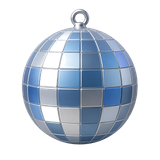
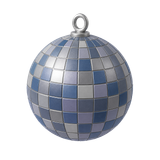
Fuenf Ersatz-Avatare, und zwei neue Ankommen-Karten
Die fuenf neuen Exporte sind sauber: 1024 mit Alphakanal, kein deckendes
Weiss, und die Lochzahlen passen zu den Motiven. Damit ist COZYQUIZ_DEFEKT
leer und der Satz zum ersten Mal komplett heil.

Dabei musste ich das Urteil im Pruefwerkzeug korrigieren. 'Ein
absichtliches Loch ist EINS' hat die kaputte Discokugel gefunden, war aber
falsch: der neue Ballon hat drei Seil-Zwischenraeume, der Planet zwei
Sicheln. Der Unterschied ist die Regelmaessigkeit, nicht die Anzahl.

Ankommen Schritt 3: 'Heute Abend' mit den Zahlen, die die Buehne vor dem
Spiel wirklich kennt (Kategorien gehoeren nicht dazu, die liegen im
Entwurf), und die Avatar-Karte.

Claude-Session: https://claude.ai/code/session_01QzZkRyd75Q6eqFDuBPStVf

diff --git a/frontend/src/components/CozyQuizPausedView.tsx b/frontend/src/components/CozyQuizPausedView.tsx
@@ -13,9 +13,11 @@
 import { useState, useEffect, useRef, useMemo, cloneElement, isValidElement } from 'react';
 import type { ReactElement } from 'react';
 import type { QQStateUpdate } from '../../../shared/quarterQuizTypes';
-import { QQ_AVATARS, QQ_MEGA_FACTIONS, qqIsMega } from '../../../shared/quarterQuizTypes';
+import { QQ_AVATARS, QQ_MEGA_FACTIONS, QQ_TEAM_PALETTE, qqIsMega } from '../../../shared/quarterQuizTypes';
 import { useLangFlip, COZY_CARD_BG, qqPlural } from '../cozyQuizShared';
 import { qqSortedTeams, qqSortedGroups } from '../qqShared';
+import { qqKachelFlaeche } from '../qqKachel';
+import { COZYQUIZ_HEILE, cozyQuizSrcKlein, cozyQuizLabel } from '../cozyquizAvatars';
 import { Fireflies, EurovisionHearts } from './CozyQuizAmbient';
 import { GridDisplay } from './CozyQuizGridDisplay';
 import { QQTeamAvatar } from './QQTeamAvatar';
@@ -318,6 +320,79 @@ export function PausedView({ state: s, mode = 'pause' }: { state: QQStateUpdate;
       </div>
     )});
 
+    // ── Heute Abend ───────────────────────────────────────────────────────
+    // 2026-08-27. Die einzige Karte mit echten Zahlen, die es VOR der ersten
+    // Frage schon gibt. Nachgesehen, was die Buehne im Ankommen-Zustand
+    // ueberhaupt weiss (Socket-Mitschnitt, nicht geraten):
+    //
+    //   totalPhases        4       -> 4 Runden, 20 Fragen
+    //   timerDurationSec   30      -> 30 Sekunden je Frage
+    //   finalWagerEnabled  true    -> Grosses Finale
+    //   cozyGamesEnabled   an/aus  -> Bunte Tuete
+    //
+    // Die KATEGORIEN sind nicht dabei, die liegen im Entwurf beim Moderator.
+    // Deshalb stehen sie hier nicht - eine Karte, die etwas behauptet, was die
+    // Buehne nicht weiss, waere schlimmer als eine Karte weniger.
+    //
+    // Beide Sprachen gleichzeitig: die Zeilen sind kurz genug, und damit
+    // braucht diese Karte keinen zweiten Takt.
+    {
+      const runden = s.totalPhases ?? 4;
+      const fragen = runden * 5;
+      const zeilen: Array<{ zahl: string; de: string; en: string }> = [
+        { zahl: String(runden), de: 'Runden', en: 'rounds' },
+        { zahl: String(fragen), de: 'Fragen', en: 'questions' },
+        { zahl: `${s.timerDurationSec ?? 30}s`, de: 'je Frage', en: 'per question' },
+      ];
+      const extras: Array<{ de: string; en: string }> = [];
+      if ((s as { cozyGamesEnabled?: boolean }).cozyGamesEnabled) {
+        extras.push({ de: 'Bunte Tüte zwischen den Runden', en: 'Lucky Bag between rounds' });
+      }
+      if (s.finalWagerEnabled === true) {
+        extras.push({ de: 'Großes Finale zum Schluss', en: 'Grand Finale at the end' });
+      }
+      panels.push({ key: 'heuteAbend', node: (
+        <div style={{ width: 'min(100%, 1100px)', margin: '0 auto' }}>
+          <div style={{ fontSize: 'clamp(28px, 3.2cqw, 46px)', fontWeight: 900, color: 'var(--qq-card-text)', marginBottom: 22, display: 'flex', alignItems: 'center', justifyContent: 'center', gap: 16 }}>
+            <span style={{ display: 'inline-block', animation: 'panelIconPop 0.7s var(--qq-ease-bounce) 0.25s both' }}>🗓</span>
+            {de ? 'Heute Abend' : 'Tonight'}
+          </div>
+          <div style={{ display: 'grid', gridTemplateColumns: 'repeat(3, 1fr)', gap: 16 }}>
+            {zeilen.map((z, i) => (
+              <div key={z.de} style={{
+                display: 'flex', flexDirection: 'column', alignItems: 'center', gap: 6,
+                padding: '26px 14px',
+                borderRadius: isThemed() ? 'var(--qq-card-radius)' : 16,
+                background: isThemed() ? 'var(--qq-surface)' : 'rgba(255,235,200,0.04)',
+                border: isThemed() ? '1px solid var(--qq-hairline)' : '1px solid rgba(255,235,200,0.10)',
+                boxShadow: 'inset 0 1px 0 rgba(246, 239, 230,0.04)',
+                animation: `panelSlideIn 0.6s var(--qq-ease-out-cubic) ${0.08 * i}s both`,
+              }}>
+                <div style={{ fontSize: 'clamp(44px, 5.2cqw, 84px)', fontWeight: 900, lineHeight: 1, color: 'var(--qq-accent)', fontVariantNumeric: 'tabular-nums' }}>{z.zahl}</div>
+                <div style={{ fontSize: 'clamp(18px, 2cqw, 28px)', fontWeight: 900, color: 'var(--qq-card-text)' }}>{z.de}</div>
+                <div style={{ fontSize: 'clamp(14px, 1.5cqw, 20px)', fontWeight: 700, color: 'var(--qq-text-muted)' }}>{z.en}</div>
+              </div>
+            ))}
+          </div>
+          {extras.length > 0 && (
+            <div style={{ display: 'flex', flexWrap: 'wrap', justifyContent: 'center', gap: 12, marginTop: 18 }}>
+              {extras.map((e, i) => (
+                <span key={e.de} style={{
+                  padding: '10px 18px',
+                  borderRadius: 999,
+                  fontSize: 'clamp(16px, 1.8cqw, 24px)', fontWeight: 800,
+                  color: 'var(--qq-text-muted)',
+                  background: isThemed() ? 'var(--qq-surface)' : 'rgba(255,235,200,0.04)',
+                  border: isThemed() ? '1px solid var(--qq-hairline)' : '1px solid rgba(255,235,200,0.10)',
+                  animation: `panelSlideIn 0.6s var(--qq-ease-out-cubic) ${0.26 + 0.08 * i}s both`,
+                }}>{de ? e.de : e.en}</span>
+              ))}
+            </div>
+          )}
+        </div>
+      )});
+    }
+
     // ── Wer schon da ist ──────────────────────────────────────────────────
     // 2026-08-27. Zwei Wuensche von Wolf treffen sich hier:
     //   „bereits eingeloggte teams oder sowas?" (26.8., zum Ankommen)
@@ -363,6 +438,61 @@ export function PausedView({ state: s, mode = 'pause' }: { state: QQStateUpdate;
                 <TeamNameLabel name={t.name} maxLines={2} shrinkAfter={16} fontSize={30} color={'var(--qq-card-text)'} fontWeight={900} />
               </div>
             ))}
+          </div>
+        </div>
+      )});
+    }
+
+    // ── Die Avatare ───────────────────────────────────────────────────────
+    // 2026-08-27. Reine Atmosphaere, und genau deshalb richtig: sie braucht
+    // null Daten, sie ist die reinste Form des 2a-Designs (farbneutrales Objekt
+    // auf Farbkachel), und sie pflanzt den Gedanken „ich such mir gleich einen
+    // aus", bevor der QR ueberhaupt kommt.
+    //
+    // ⚠ Nur die heilen Motive. Fuenf sind defekt (weisse Flaeche statt Loch,
+    // bzw. Loecher mitten in der Kugel) - die Liste steht in
+    // `COZYQUIZ_DEFEKT`. Auf einer Folie, die 20 Minuten laeuft und wo die
+    // Motive GROSS stehen, faellt ein weisser Kasten sofort auf. Sobald die
+    // neuen Exporte da sind, wird die Liste leer und sie sind automatisch
+    // wieder dabei.
+    //
+    // Ein fester Ausschnitt, nicht alle 48: gross genug fuer acht Meter, und
+    // die Auswahl wechselt nicht bei jedem Umlauf (nichts blinkt).
+    {
+      // 2026-08-27 gemessen: bei drei Reihen lief die unterste aus dem Bild
+      // (Kontaktbogen `.shots/ANKOMMEN-NEU.png`). Der Kartenbereich der Folie
+      // ist nicht die ganze Buehne - darueber steht die Wortmarke, darunter
+      // „Gleich geht's los" und der Wolf. Zwei Reihen passen.
+      const SPALTEN = 8, ZEILEN = 2;
+      const gezeigt = COZYQUIZ_HEILE.slice(0, SPALTEN * ZEILEN);
+      panels.push({ key: 'avatare', node: (
+        <div style={{ width: 'min(100%, 1280px)', margin: '0 auto' }}>
+          <div style={{ fontSize: 'clamp(28px, 3.2cqw, 46px)', fontWeight: 900, color: 'var(--qq-card-text)', marginBottom: 20, display: 'flex', alignItems: 'center', justifyContent: 'center', gap: 16 }}>
+            <span style={{ display: 'inline-block', animation: 'panelIconPop 0.7s var(--qq-ease-bounce) 0.25s both' }}>🎨</span>
+            {de ? 'Sucht euch einen aus' : 'Pick your avatar'}
+          </div>
+          <div style={{ display: 'grid', gridTemplateColumns: `repeat(${SPALTEN}, 1fr)`, gap: 12 }}>
+            {gezeigt.map((slug, i) => (
+              <div key={slug} style={{
+                aspectRatio: '1 / 1',
+                display: 'flex', alignItems: 'center', justifyContent: 'center',
+                ...qqKachelFlaeche({
+                  farbe: QQ_TEAM_PALETTE[i % QQ_TEAM_PALETTE.length],
+                  radius: 18,
+                }),
+                animation: `panelSlideIn 0.5s var(--qq-ease-out-cubic) ${0.02 * i}s both`,
+              }}>
+                <img
+                  src={cozyQuizSrcKlein(slug)}
+                  alt={cozyQuizLabel(slug, lang)}
+                  draggable={false}
+                  style={{ width: '78%', height: '78%', objectFit: 'contain', display: 'block' }}
+                />
+              </div>
+            ))}
+          </div>
+          <div style={{ textAlign: 'center', marginTop: 16, fontSize: 'clamp(16px, 1.8cqw, 24px)', fontWeight: 800, color: 'var(--qq-text-muted)' }}>
+            {de ? `${COZYQUIZ_HEILE.length} Objekte, 8 Farben` : `${COZYQUIZ_HEILE.length} objects, 8 colours`}
           </div>
         </div>
       )});

diff --git a/frontend/src/cozyquizAvatars.ts b/frontend/src/cozyquizAvatars.ts
@@ -136,6 +136,41 @@ const ALTLASTEN: Record<string, string> = {
   'alarm-clock': 'hot-water-bottle',
 };
 
+/**
+ * Motive, deren Bilddaten defekt sind (Stand 2026-08-27).
+ *
+ * Gefunden mit `node scripts/avatare-loecher.mjs`, jedes einzeln am Kontaktbogen
+ * bestaetigt. Zwei Fehlerarten:
+ *
+ *   zu wenig Loch   deckendes Weiss, wo der Grund durchscheinen muesste
+ *                   hot-air-balloon (zwischen den Seilen), houseplant
+ *                   (zwischen Stiel und Blaettern), backpack (unter dem
+ *                   Tragegriff), ringed-planet (zwischen Ring und Kugel)
+ *   zu viel Loch    disco-ball: ZWOELF verstreute Loecher mitten im Ball
+ *
+ * ⚠ Das ist KEINE Sperre. Die Motive stehen weiter im Picker - ob sie dort
+ * bleiben, ist Wolfs Entscheidung, und er mag sie („schade ich finde den super
+ * schoen"). Die Liste ist dafuer da, sie aus Flaechen herauszuhalten, auf denen
+ * sie unaufgefordert und gross erscheinen wuerden, etwa der Ankommen-Folie.
+ *
+ * Sobald die neuen Exporte da sind (`docs/avatare-nachbestellung-2026-08-27.md`),
+ * wird diese Liste leer.
+ */
+export const COZYQUIZ_DEFEKT: readonly string[] = [
+  // 2026-08-27, noch am selben Tag geleert: Wolf hat alle fuenf neu ausgeleitet.
+  // Gemessen mit `node scripts/avatare-loecher.mjs`, und die Lochzahlen passen
+  // diesmal zu den Motiven statt zu Zufall:
+  //   backpack 1 (unter dem Griff), hot-air-balloon 3 (die drei Zwischenraeume
+  //   der vier Seile), disco-ball 1 (die Oese), ringed-planet 2 (die beiden
+  //   Sicheln), houseplant 0. Keine deckende weisse Flaeche mehr.
+  // Die alten Dateien liegen unberuehrt unter `avatare-v5-original/defekt/`.
+];
+
+/** Alle Slugs, deren Bild in Ordnung ist. */
+export const COZYQUIZ_HEILE: string[] = COZYQUIZ_AVATARS
+  .map(a => a.slug)
+  .filter(slug => !COZYQUIZ_DEFEKT.includes(slug));
+
 const SLUG_SET = new Set(COZYQUIZ_SLUGS);
 const BY_SLUG = new Map(COZYQUIZ_AVATARS.map(a => [a.slug, a]));
 

diff --git a/todo.md b/todo.md
@@ -56,6 +56,27 @@
 
 ---
 
+## 🚪 ANKOMMEN, Schritt 3 (Wolf 2026-08-27)
+
+- ✅ **„Heute Abend" und die Avatare gebaut.**
+      „Heute Abend" ist die einzige Karte mit echten Zahlen, die es VOR der
+      ersten Frage gibt. Nachgesehen per Socket-Mitschnitt, was die Buehne im
+      Ankommen-Zustand ueberhaupt weiss: `totalPhases`, `timerDurationSec`,
+      `finalWagerEnabled`, `cozyGamesEnabled`. Die **Kategorien sind nicht
+      dabei**, die liegen im Entwurf beim Moderator - deshalb stehen sie nicht
+      auf der Karte. Beide Sprachen gleichzeitig, die Zeilen sind kurz genug.
+
+      Die Avatar-Karte braucht null Daten und ist die reinste Form des
+      2a-Designs. Zwei Reihen a acht, gemessen: bei drei Reihen lief die
+      unterste aus dem Bild.
+
+      Umlauf jetzt: 4 Karten, 8 Bilder, 64 Sekunden.
+
+- [ ] **Schritt 4: „Wie funktioniert's" auf 2a nachziehen.** Die Karte ist die
+      einzige der vier, die noch die alte Panel-Optik traegt.
+
+---
+
 ## 🌳 FORTSCHRITTSBAUM: WO ENDET EINE RUNDE? (Wolf 2026-08-27)
 
 - ✅ **Das Gleis endet jetzt an der Rundengrenze** (2026-08-27, erledigt).
@@ -293,7 +314,26 @@ gut zum ankommen etc, das einlogen nach begruessung etc?"
       `alarm-clock`. `ALTLASTEN` in `cozyquizAvatars.ts` bildet ihn auf die
       Waermflasche ab, im Picker taucht er nicht auf.
 
-- [ ] **Fuenf weitere Motive haben denselben Fehler** (2026-08-27, Wolf zum
+- ✅ **Fuenf Ersatz-Motive eingebaut** (2026-08-27, noch am selben Tag).
+      Wolf hat alle fuenf neu ausgeleitet, geprueft mit
+      `node scripts/avatare-loecher.mjs`. Alle 1024x1024 mit Alphakanal, keine
+      deckende weisse Flaeche mehr, und die Lochzahlen passen diesmal zu den
+      Motiven statt zu Zufall: Rucksack 1 (unter dem Griff), Ballon 3 (die drei
+      Zwischenraeume zwischen vier Seilen), Discokugel 1 (die Oese), Ringplanet
+      2 (die beiden Sicheln), Pflanze 0. Bild: `.shots/F5-NEU.png`.
+      Die alten liegen unberuehrt unter `avatare-v5-original/defekt/`.
+      `COZYQUIZ_DEFEKT` ist damit leer, der Satz ist zum ersten Mal komplett
+      heil.
+
+      ⚠ **Dabei musste ich mein eigenes Urteil korrigieren.** Das Werkzeug sagte
+      „ein absichtliches Loch ist EINS", und das hat die kaputte Discokugel mit
+      zwoelf Loechern zuverlaessig gefunden. Es war trotzdem falsch: der neue
+      Ballon hat drei, der neue Planet zwei, beide einwandfrei. Der richtige
+      Unterschied ist nicht die Anzahl, sondern die Regelmaessigkeit. Zum Motiv
+      gehoerende Loecher sind wenige und aehnlich gross (Spanne 1,13), Schaden
+      ist viel und ungleich (Spanne ueber 4).
+
+- ~~**Fuenf weitere Motive haben denselben Fehler**~~ (2026-08-27, Wolf zum
       Heissluftballon: „hier ist auch noch ein bug... schade ich finde den super
       schoen"). Gefunden mit dem neuen `node scripts/avatare-loecher.mjs`.
 
